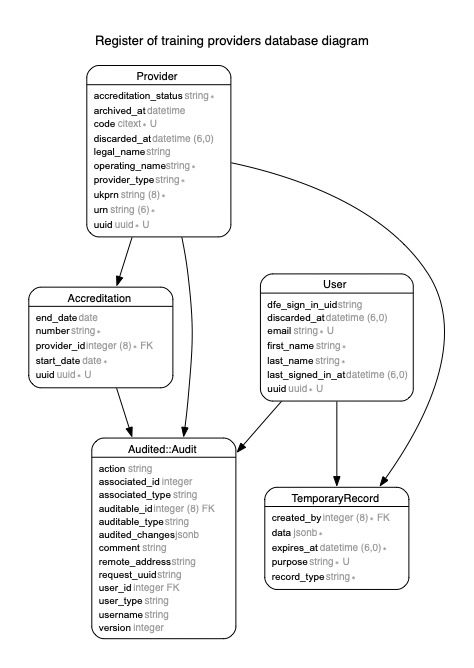
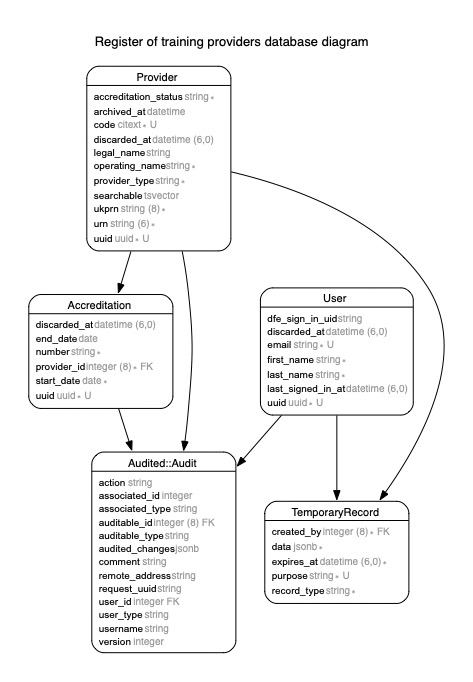
[194] - change from delete => discarded

diff --git a/app/models/accreditation.rb b/app/models/accreditation.rb
@@ -2,28 +2,31 @@
 #
 # Table name: accreditations
 #
-#  id          :bigint           not null, primary key
-#  end_date    :date
-#  number      :string           not null
-#  start_date  :date             not null
-#  uuid        :uuid             not null
-#  created_at  :datetime         not null
-#  updated_at  :datetime         not null
-#  provider_id :bigint           not null
+#  id           :bigint           not null, primary key
+#  discarded_at :datetime
+#  end_date     :date
+#  number       :string           not null
+#  start_date   :date             not null
+#  uuid         :uuid             not null
+#  created_at   :datetime         not null
+#  updated_at   :datetime         not null
+#  provider_id  :bigint           not null
 #
 # Indexes
 #
-#  index_accreditations_on_end_date     (end_date)
-#  index_accreditations_on_number       (number)
-#  index_accreditations_on_provider_id  (provider_id)
-#  index_accreditations_on_start_date   (start_date)
-#  index_accreditations_on_uuid         (uuid) UNIQUE
+#  index_accreditations_on_discarded_at  (discarded_at)
+#  index_accreditations_on_end_date      (end_date)
+#  index_accreditations_on_number        (number)
+#  index_accreditations_on_provider_id   (provider_id)
+#  index_accreditations_on_start_date    (start_date)
+#  index_accreditations_on_uuid          (uuid) UNIQUE
 #
 # Foreign Keys
 #
 #  fk_rails_...  (provider_id => providers.id)
 #
 class Accreditation < ApplicationRecord
+  include Discard::Model
   include UuidIdentifiable
   include SaveAsTemporary
 
@@ -37,7 +40,7 @@ class Accreditation < ApplicationRecord
   scope :current, -> { where("start_date <= ? AND (end_date IS NULL OR end_date >= ?)", Date.current, Date.current) }
   scope :order_by_start_date, -> { order(:start_date) }
 
-  after_destroy :sync_provider_accreditation_status_on_destroy
+  after_discard :sync_provider_accreditation_status_on_destroy
   after_save :sync_provider_accreditation_status
   after_touch :sync_provider_accreditation_status
 

diff --git a/db/schema.rb b/db/schema.rb
@@ -10,7 +10,7 @@
 #
 # It's strongly recommended that you check this file into your version control system.
 
-ActiveRecord::Schema[8.0].define(version: 2025_08_14_151518) do
+ActiveRecord::Schema[8.0].define(version: 2025_09_04_085830) do
   # These are extensions that must be enabled in order to support this database
   enable_extension "citext"
   enable_extension "pgcrypto"
@@ -23,6 +23,8 @@ ActiveRecord::Schema[8.0].define(version: 2025_08_14_151518) do
     t.uuid "uuid", null: false
     t.datetime "created_at", null: false
     t.datetime "updated_at", null: false
+    t.datetime "discarded_at"
+    t.index ["discarded_at"], name: "index_accreditations_on_discarded_at"
     t.index ["end_date"], name: "index_accreditations_on_end_date"
     t.index ["number"], name: "index_accreditations_on_number"
     t.index ["provider_id"], name: "index_accreditations_on_provider_id"

diff --git a/spec/features/end_to_end/accreditations/deleting_accreditation_spec.rb b/spec/features/end_to_end/accreditations/deleting_accreditation_spec.rb
@@ -65,11 +65,11 @@ private
   end
 
   def and_the_accreditation_should_be_deleted
-    expect(Accreditation.exists?(accreditation.id)).to be false
+    expect(accreditation.reload).to be_discarded
   end
 
   def and_the_accreditation_should_still_exist
-    expect(Accreditation.exists?(accreditation.id)).to be true
+    expect(accreditation.reload).not_to be_discarded
   end
 
   def provider

diff --git a/app/controllers/providers/accreditations/deletes_controller.rb b/app/controllers/providers/accreditations/deletes_controller.rb
@@ -10,7 +10,7 @@ module Providers
 
       def destroy
         authorize @accreditation, :destroy?
-        @accreditation.destroy!
+        @accreditation.discard!
         redirect_to(provider_accreditations_path(@provider),
                     flash: { success: t("flash_message.success.accreditation.remove") })
       end

diff --git a/db/migrate/20250904085830_add_discarded_at_to_accreditations.rb b/db/migrate/20250904085830_add_discarded_at_to_accreditations.rb
@@ -1,0 +1,6 @@
+class AddDiscardedAtToAccreditations < ActiveRecord::Migration[8.0]
+  def change
+    add_column :accreditations, :discarded_at, :datetime
+    add_index :accreditations, :discarded_at
+  end
+end
